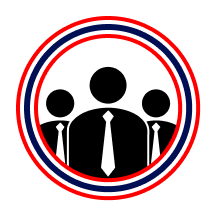
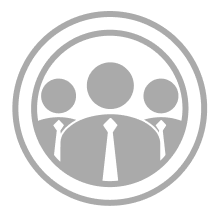
fix: adjust placeholder images

diff --git a/src/components/Search/SearchMain.tsx b/src/components/Search/SearchMain.tsx
@@ -280,7 +280,7 @@ export const SearchMain = () => {
       {query !== "" && (
         <SearchResult
           data={peopleResult}
-          placeholderImage="/placeholders/politician.png"
+          placeholderImage="/placeholders/person.png"
           type="บุคคล"
           hidden={!(group === "ทั้งหมด" || group === "บุคคล")}
           query={query}
@@ -309,7 +309,7 @@ export const SearchMain = () => {
 
       <Top3Thing
         name="บุคคลที่มีทรัพย์สินมากที่สุด"
-        placeholderImage="/placeholders/politician.png"
+        placeholderImage="/placeholders/person.png"
         data={TOP3PERSON}
         hidden={!(query === "" && (group === "ทั้งหมด" || group === "บุคคล"))}
       />
